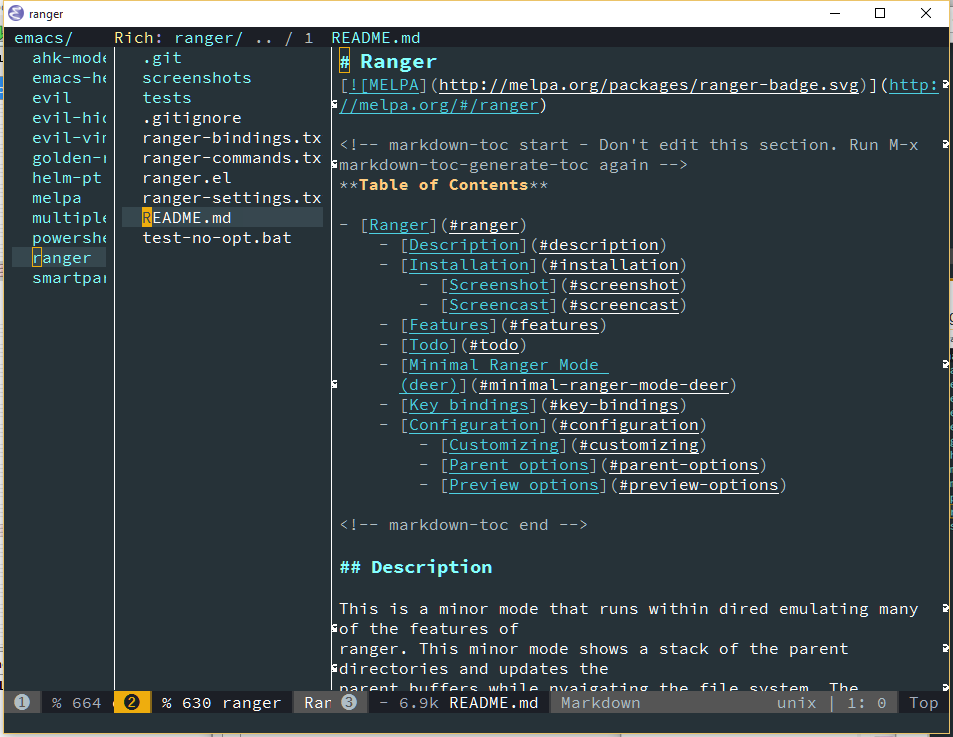
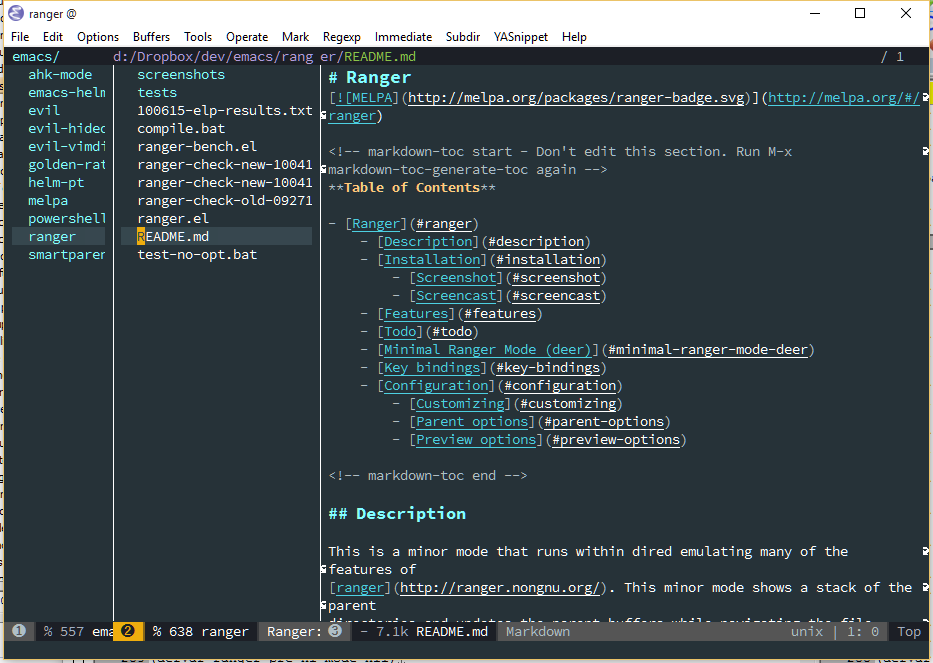
Updating images in README.

Changed region(s): [[0.0, 0.0, 1.0, 1.0], [0.3419, 0.7541, 0.5284, 0.7843], [0.3419, 0.5128, 0.373, 0.543]]

diff --git a/README.md b/README.md
@@ -38,8 +38,14 @@ use `package-install` command to install Ranger. The package name is `ranger`.
 ranger mode active
 ![Ranger Mode Active](screenshots/ranger.png)
 
+deer mode (minimal ranger mode)
+![Deer Mode](screenshots/deer.png)
+
 ranger mode with preview enabled
 ![Ranger Mode with Preview](screenshots/ranger-preview.png)
+
+ranger mode showing image
+![Ranger Mode with Image](screenshots/ranger-image.png)
 
 ### Screencast
 
